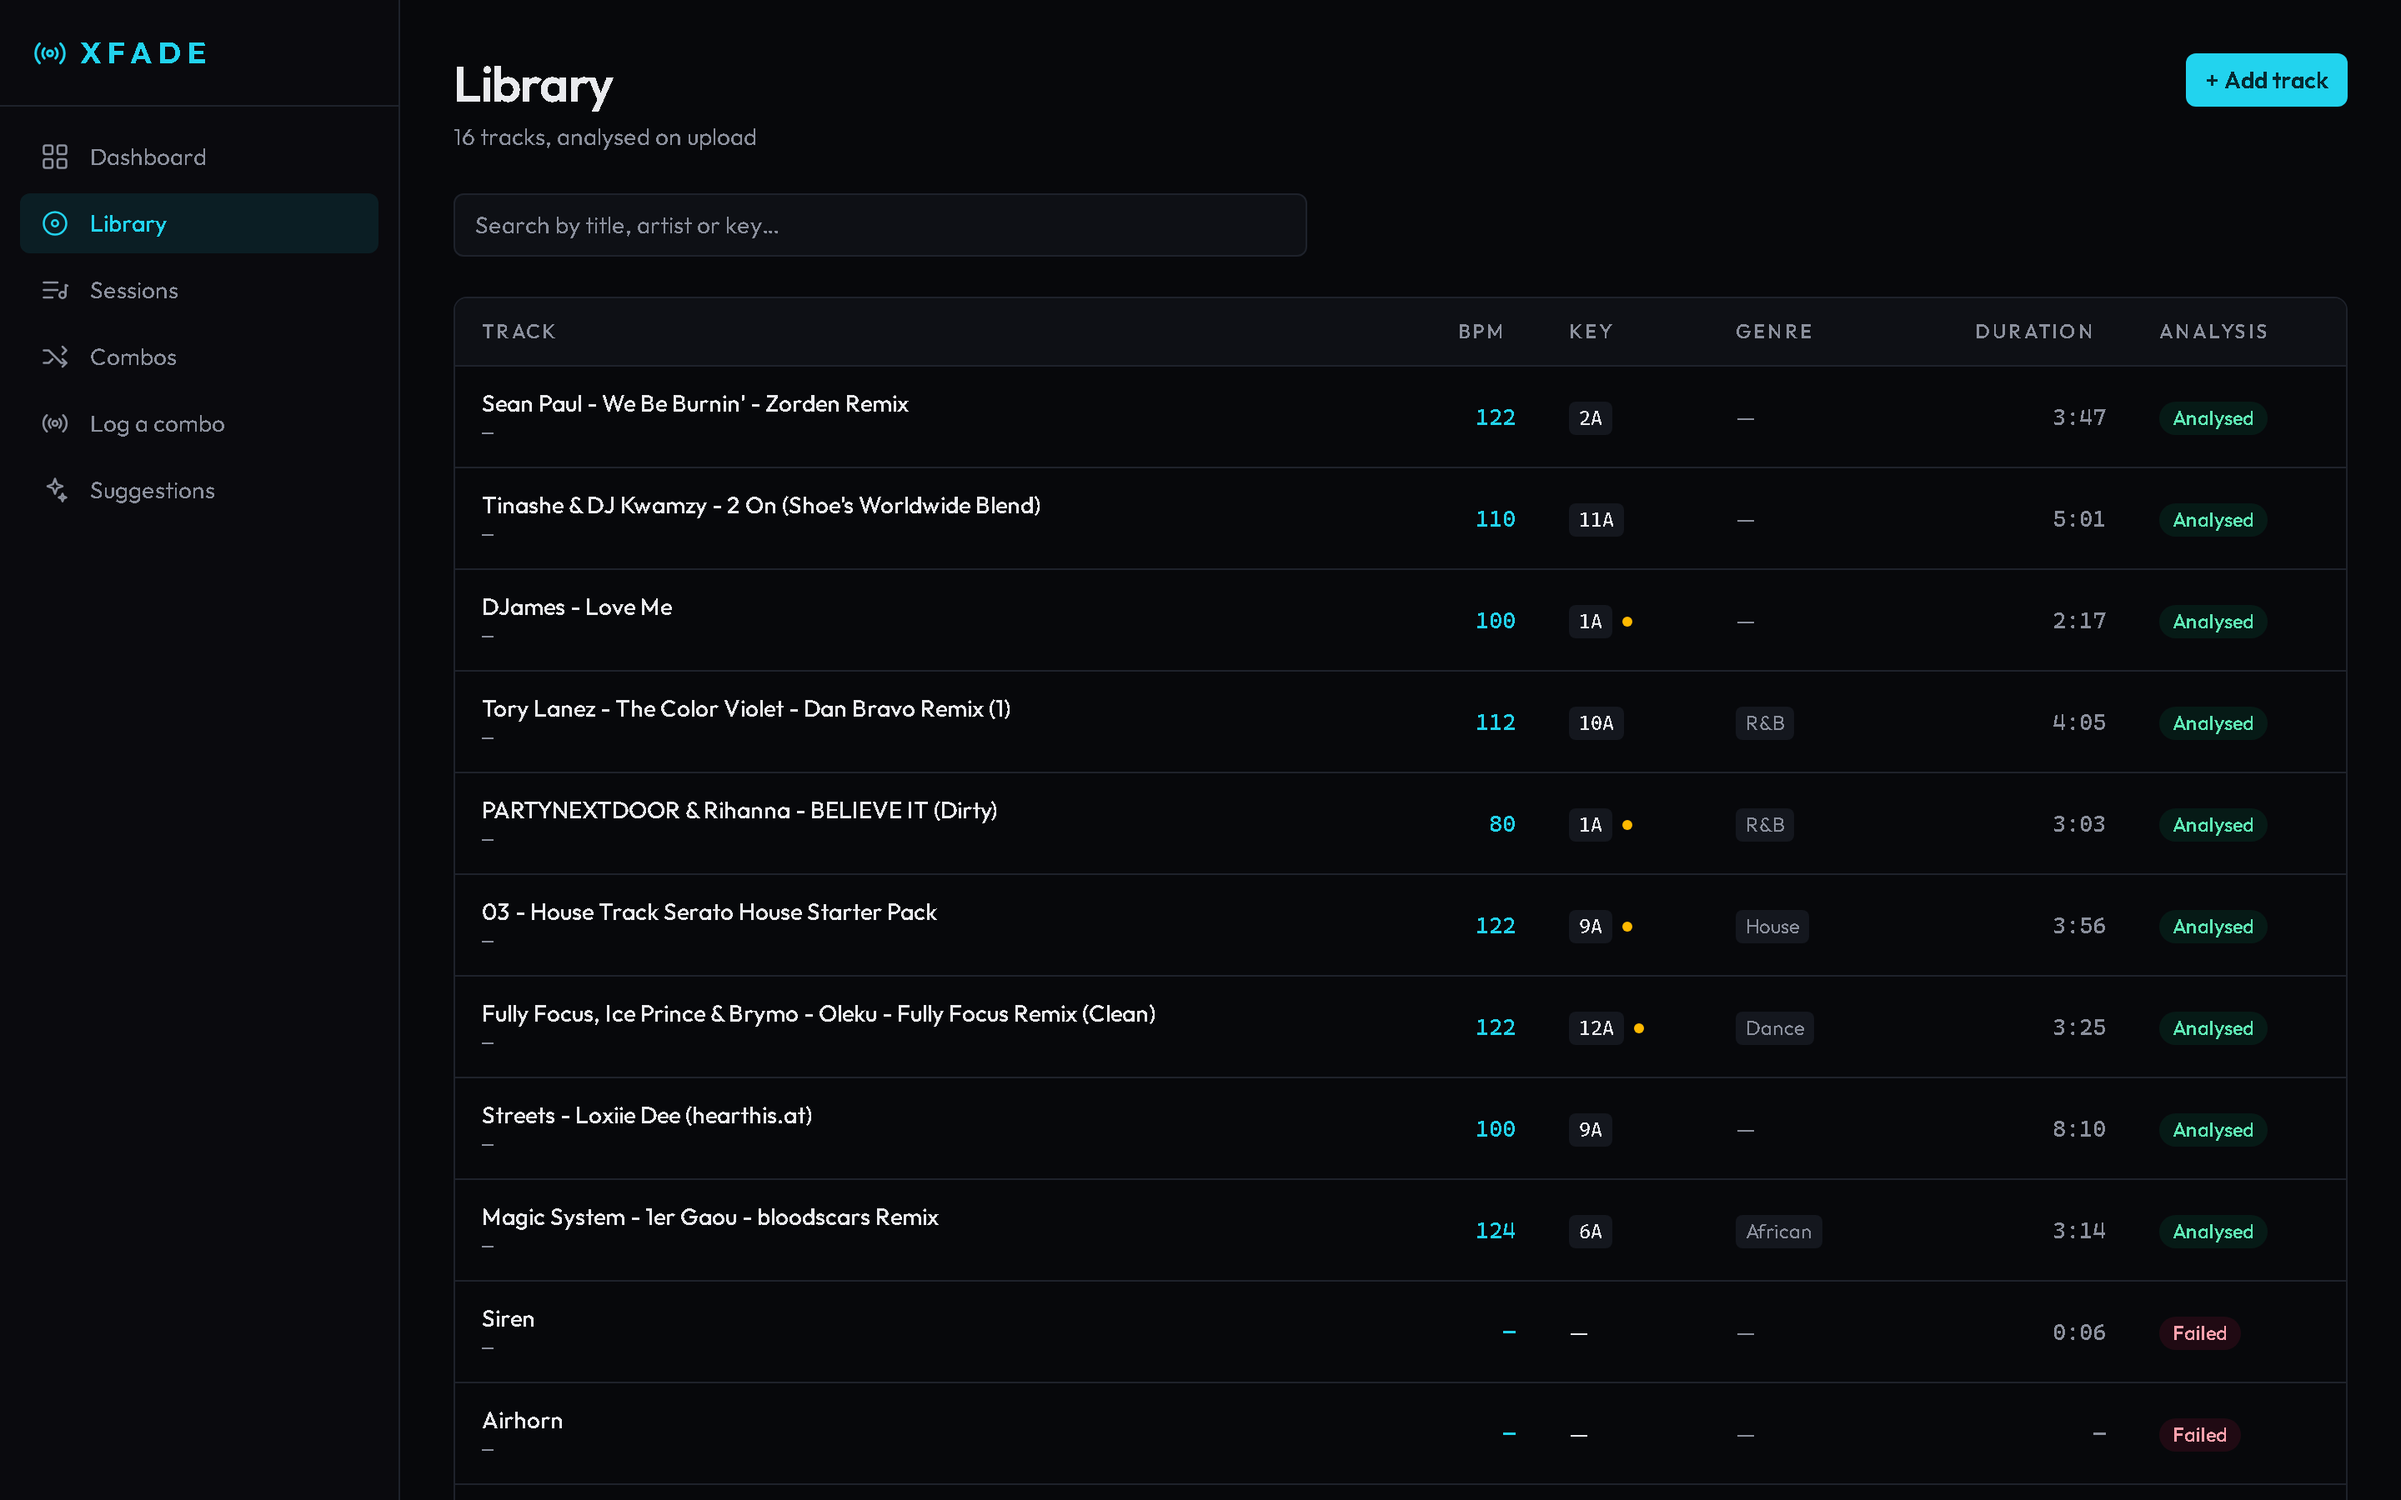
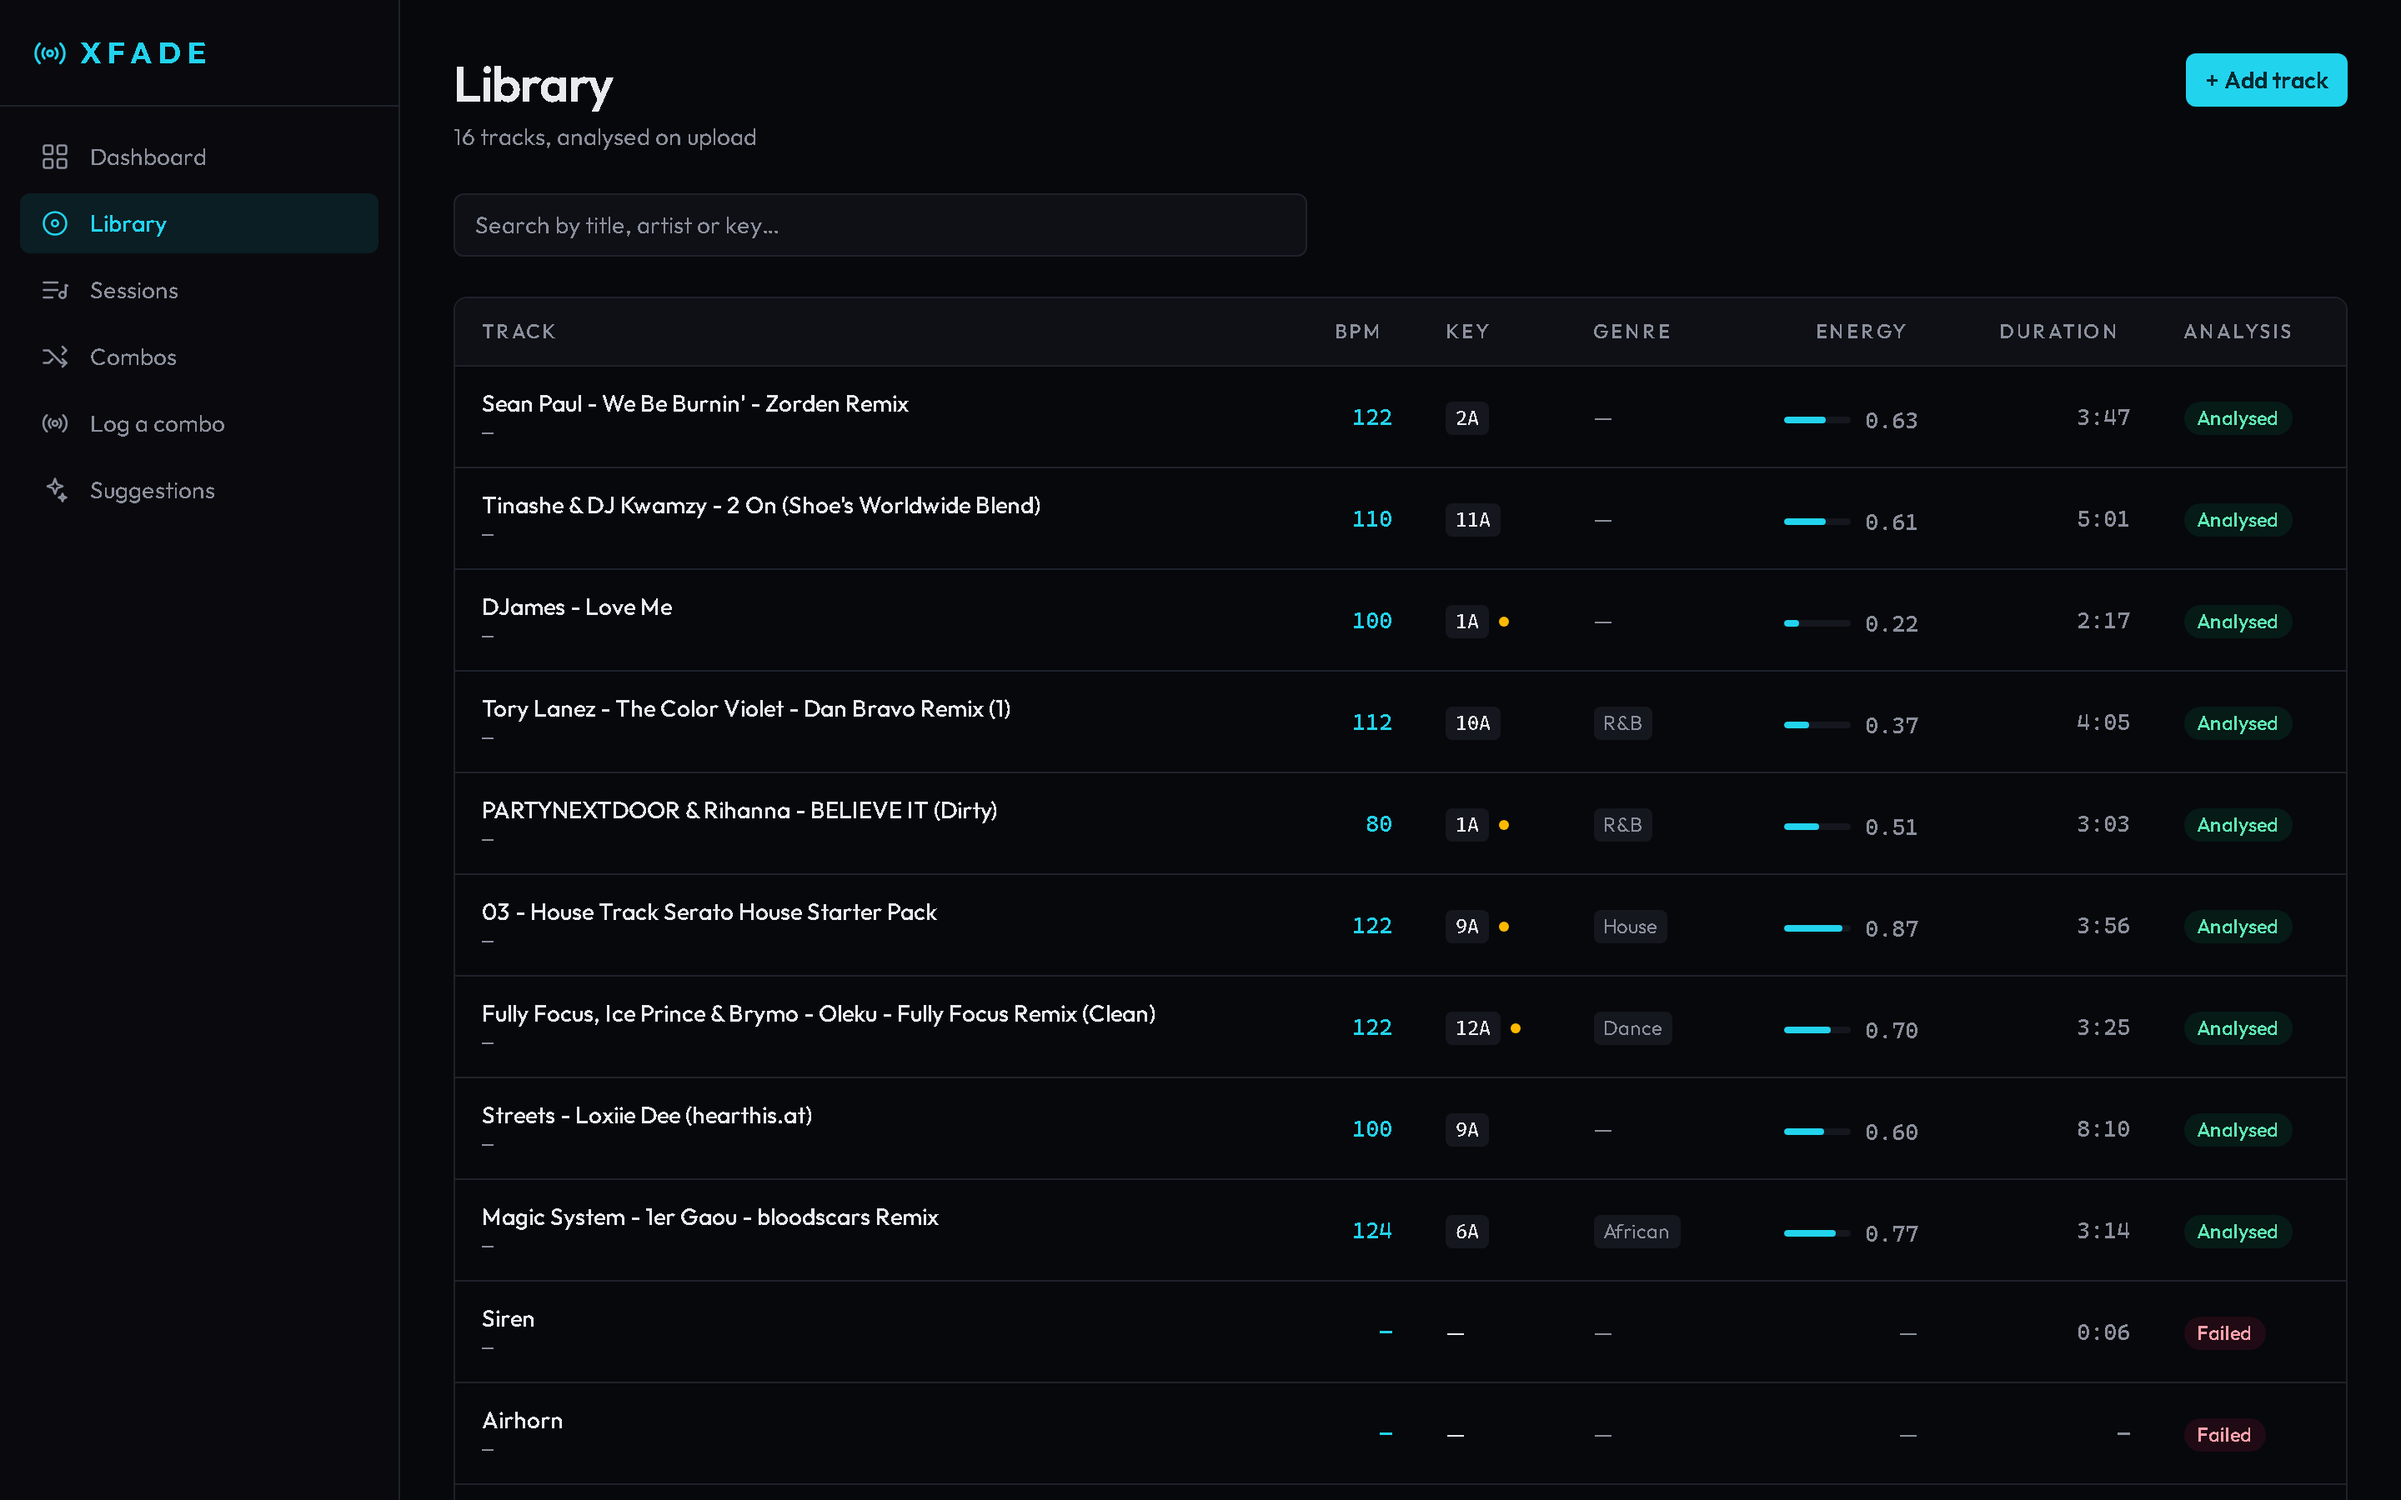
Add energy as a sortable Library column
Energy became a real measurement when the composite replaced RMS, and then
stayed visible in exactly one place: a single stat on track detail. The
Library sorted on BPM, key, genre and duration and said nothing about it.
That was fine while the number meant little; it is not fine now that it
spreads across its range and ranks something loudness does not.

Rendered as a bar plus the value rather than a bare decimal. The figure is
calibrated against this library -- it only means anything next to the other
rows -- and a column of bars is scannable where a column of decimals is not.
The bar is aria-hidden decoration and the number carries the same information
as text, so there is nothing to announce twice.

One trap worth naming: 0 is a real energy value. The library's floor sits
exactly there, so sorting has to distinguish it from "not analysed yet" --
a falsy check would have quietly sorted the calmest track as though it had
no features at all. There is a test for that specific case.

Verified against the running stack, not just the suites: the column renders
with the values extraction actually stored (0.22 for DJames - Love Me up to
0.91 for Ceeka RSA - Molo), clicking the header sorts 0.91 down to 0.22 with
the three failed tracks last, and the browser suite still passes. The README
screenshot was regenerated to show it; the other three came back
byte-identical, which is some evidence the capture is deterministic.
[…]

diff --git a/frontend/src/lib/sortTracks.test.ts b/frontend/src/lib/sortTracks.test.ts
@@ -87,6 +87,34 @@ describe("sortTracks", () => {
     expect(titles(sortTracks(tracks, "key_camelot", "asc"))).toEqual(["good", "bad"]);
   });
 
+  it("sorts by energy in both directions", () => {
+    // Values from the real library after the composite replaced RMS: an acapella-ish
+    // floor, the median, and a driving amapiano remix.
+    const tracks = [
+      track("mid", { energy: 0.544 }),
+      track("calm", { energy: 0.217 }),
+      track("driving", { energy: 0.909 }),
+    ];
+
+    expect(titles(sortTracks(tracks, "energy", "asc"))).toEqual(["calm", "mid", "driving"]);
+    expect(titles(sortTracks(tracks, "energy", "desc"))).toEqual(["driving", "mid", "calm"]);
+  });
+
+  it("puts tracks with no energy last, like every other feature column", () => {
+    const tracks = [track("unanalysed"), track("analysed", { energy: 0.5 })];
+
+    expect(titles(sortTracks(tracks, "energy", "asc"))).toEqual(["analysed", "unanalysed"]);
+    expect(titles(sortTracks(tracks, "energy", "desc"))).toEqual(["analysed", "unanalysed"]);
+  });
+
+  it("keeps a zero energy distinct from a missing one", () => {
+    // 0 is a real value the composite produces — the library's floor sits there —
+    // so a falsy check rather than a null check would sort it as unanalysed.
+    const tracks = [track("floor", { energy: 0 }), track("none"), track("some", { energy: 0.3 })];
+
+    expect(titles(sortTracks(tracks, "energy", "asc"))).toEqual(["floor", "some", "none"]);
+  });
+
   it("sorts titles case-insensitively", () => {
     const tracks = [track("zebra"), track("Apple"), track("mango")];
     expect(titles(sortTracks(tracks, "title", "asc"))).toEqual(["Apple", "mango", "zebra"]);

diff --git a/frontend/src/components/TrackTable.tsx b/frontend/src/components/TrackTable.tsx
@@ -4,6 +4,7 @@ import { bpmOf, keyOf, keysDisagree } from "../lib/features";
 import { sortTracks, type SortDirection, type SortKey } from "../lib/sortTracks";
 import type { TrackDetail } from "../types/xfade";
 import { ExtractionStatusBadge } from "./ExtractionStatus";
+import { EnergyMeter } from "./ui/EnergyMeter";
 import { EmptyState } from "./ui/Panel";
 import { Pill, formatDuration } from "./ui/Pill";
 
@@ -12,6 +13,7 @@ const COLUMNS: { key: SortKey; label: string; numeric?: boolean }[] = [
   { key: "bpm", label: "BPM", numeric: true },
   { key: "key_camelot", label: "Key" },
   { key: "genre", label: "Genre" },
+  { key: "energy", label: "Energy", numeric: true },
   { key: "duration", label: "Duration", numeric: true },
 ];
 
@@ -107,6 +109,9 @@ export function TrackTable({ tracks }: { tracks: TrackDetail[] }) {
                 </td>
                 <td className="px-4 py-3">
                   {track.genre ? <Pill>{track.genre}</Pill> : <span className="text-muted">—</span>}
+                </td>
+                <td className="px-4 py-3 text-right">
+                  <EnergyMeter value={features?.energy} />
                 </td>
                 <td className="data px-4 py-3 text-right text-muted">
                   {formatDuration(features?.duration_seconds)}

diff --git a/frontend/src/components/ui/EnergyMeter.tsx b/frontend/src/components/ui/EnergyMeter.tsx
@@ -1,0 +1,32 @@
+/**
+ * Energy as a bar plus its value.
+ *
+ * A bar rather than a bare number because the figure is calibrated against this
+ * library — a track's energy only means anything next to the others, and a row of
+ * bars is scannable in a way that a column of decimals is not.
+ *
+ * The bar is decorative and hidden from assistive tech; the number beside it carries
+ * the same information as text, so there is nothing to announce twice.
+ */
+export function EnergyMeter({ value }: { value: number | null | undefined }) {
+  if (value == null) {
+    return <span className="text-muted">—</span>;
+  }
+
+  const clamped = Math.max(0, Math.min(1, value));
+
+  return (
+    <span
+      className="inline-flex items-center gap-2"
+      title="Derived from loudness, brightness and onset rate, scaled across this library."
+    >
+      <span aria-hidden="true" className="h-1 w-10 overflow-hidden rounded-full bg-raise">
+        <span
+          className="block h-full rounded-full bg-accent"
+          style={{ width: `${clamped * 100}%` }}
+        />
+      </span>
+      <span className="data text-muted">{clamped.toFixed(2)}</span>
+    </span>
+  );
+}

diff --git a/frontend/src/components/TrackTable.test.tsx b/frontend/src/components/TrackTable.test.tsx
@@ -119,6 +119,25 @@ describe("TrackTable", () => {
     expect(rowOrder()).toEqual(["long", "short"]);
   });
 
+  it("shows energy as a value, not just a bar", async () => {
+    renderTable([track("Driving", { energy: 0.909 })]);
+    // The bar is aria-hidden decoration; the number is what carries the information.
+    expect(screen.getByText("0.91")).toBeInTheDocument();
+  });
+
+  it("sorts by energy", async () => {
+    const user = userEvent.setup();
+    renderTable([track("calm", { energy: 0.217 }), track("driving", { energy: 0.909 })]);
+
+    await user.click(screen.getByRole("button", { name: /energy/i }));
+    expect(rowOrder()).toEqual(["driving", "calm"]);
+  });
+
+  it("shows a dash for a track with no energy yet", () => {
+    renderTable([track("Fresh", { bpm: 128 })]);
+    expect(screen.getAllByText("—").length).toBeGreaterThan(0);
+  });
+
   it("exposes sort state to assistive tech", async () => {
     const user = userEvent.setup();
     renderTable([track("a", { bpm: 90 })]);

diff --git a/frontend/src/lib/sortTracks.ts b/frontend/src/lib/sortTracks.ts
@@ -8,6 +8,7 @@ export type SortKey =
   | "key_camelot"
   | "genre"
   | "duration"
+  | "energy"
   | "created_at";
 export type SortDirection = "asc" | "desc";
 
@@ -54,6 +55,9 @@ function valueFor(track: TrackDetail, key: SortKey): string | number | null {
       return bpmOf(track.audio_features);
     case "duration":
       return track.audio_features?.duration_seconds ?? null;
+    case "energy":
+      // No effective/tag pair for energy — nothing writes it but extraction.
+      return track.audio_features?.energy ?? null;
     case "key_camelot":
       // Sorts on the same value the table shows and the scorer uses.
       return camelotOrder(keyOf(track.audio_features));

diff --git a/docs/v1.1-backlog.md b/docs/v1.1-backlog.md
@@ -357,12 +357,24 @@ not "because it is finished".
 
       Across the 16 local tracks this filled 7 (African ×3, R&B ×2, Dance, House); the
       other 9 files carry no genre tag at all. Library-wide the tag rate is ~72%.
-- [ ] **Energy is computed but barely surfaced.** It appears as one stat on track
-      detail and nowhere else — the Library table sorts on BPM, key, genre and
-      duration only. That was a reasonable omission while energy was RMS and meant
-      little; now that it spreads across its range and ranks something real (§2), a
-      sortable column and a filter are the obvious next use. Noticed while rewriting
-      the README, which had claimed the column already existed.
+- [x] **Energy is now a sortable Library column.** It had appeared as one stat on
+      track detail and nowhere else — a reasonable omission while energy was RMS and
+      meant little, but not once it spread across its range and ranked something real
+      (§2). Noticed while rewriting the README, which had claimed the column already
+      existed.
+
+      Rendered as a bar plus the number rather than a bare decimal, because the value
+      is calibrated against this library: it only means anything next to the other
+      rows, and a column of bars is scannable where a column of decimals is not. The
+      bar is `aria-hidden` decoration and the number carries the information as text,
+      so nothing is announced twice.
+
+      One thing worth not getting wrong: **0 is a real energy value** — the library's
+      floor sits there — so sorting has to distinguish it from "not analysed yet". A
+      falsy check would have quietly sorted the calmest track as though it had no
+      features. There is a test for exactly that.
+
+      Still open: no *filter* by energy, only sorting.
 - [ ] **Genre is only read on upload.** The 16 existing tracks show `—`; re-analysing
       backfills BPM and key tags but genre is set at upload only, so it stays empty for
       anything already in the library. ~72% of the library has a usable genre tag.

diff --git a/README.md b/README.md
@@ -33,7 +33,7 @@ at all — or for anything unreleased.
 
 ## What it does
 
-- **Library** — upload, sortable BPM/key/genre/duration columns, live extraction status
+- **Library** — upload, sortable BPM/key/genre/energy/duration columns, live extraction status
 - **Compatibility scoring** — 0–100 for any pair, with the reasoning spelled out
 - **Combo logger** — log a transition with technique, rating and notes, scored live
 - **Session planner** — build an ordered setlist
@@ -42,10 +42,11 @@ at all — or for anything unreleased.
 
 ## Screenshots
 
-**Library** — BPM, key, genre and duration derived from the file, with extraction
-status per track. The amber dot marks a key where the file's tag and the audio
-disagree; the `Failed` rows are one-shots too short to analyse, refused rather than
-guessed at.
+**Library** — BPM, key, genre, energy and duration derived from the file, with
+extraction status per track. Every column sorts, and energy shows as a bar because it
+is calibrated against this library: the number only means something next to the other
+rows. The amber dot marks a key where the file's tag and the audio disagree; the
+`Failed` rows are one-shots too short to analyse, refused rather than guessed at.
 
 ![Library](docs/images/library.png)
 
